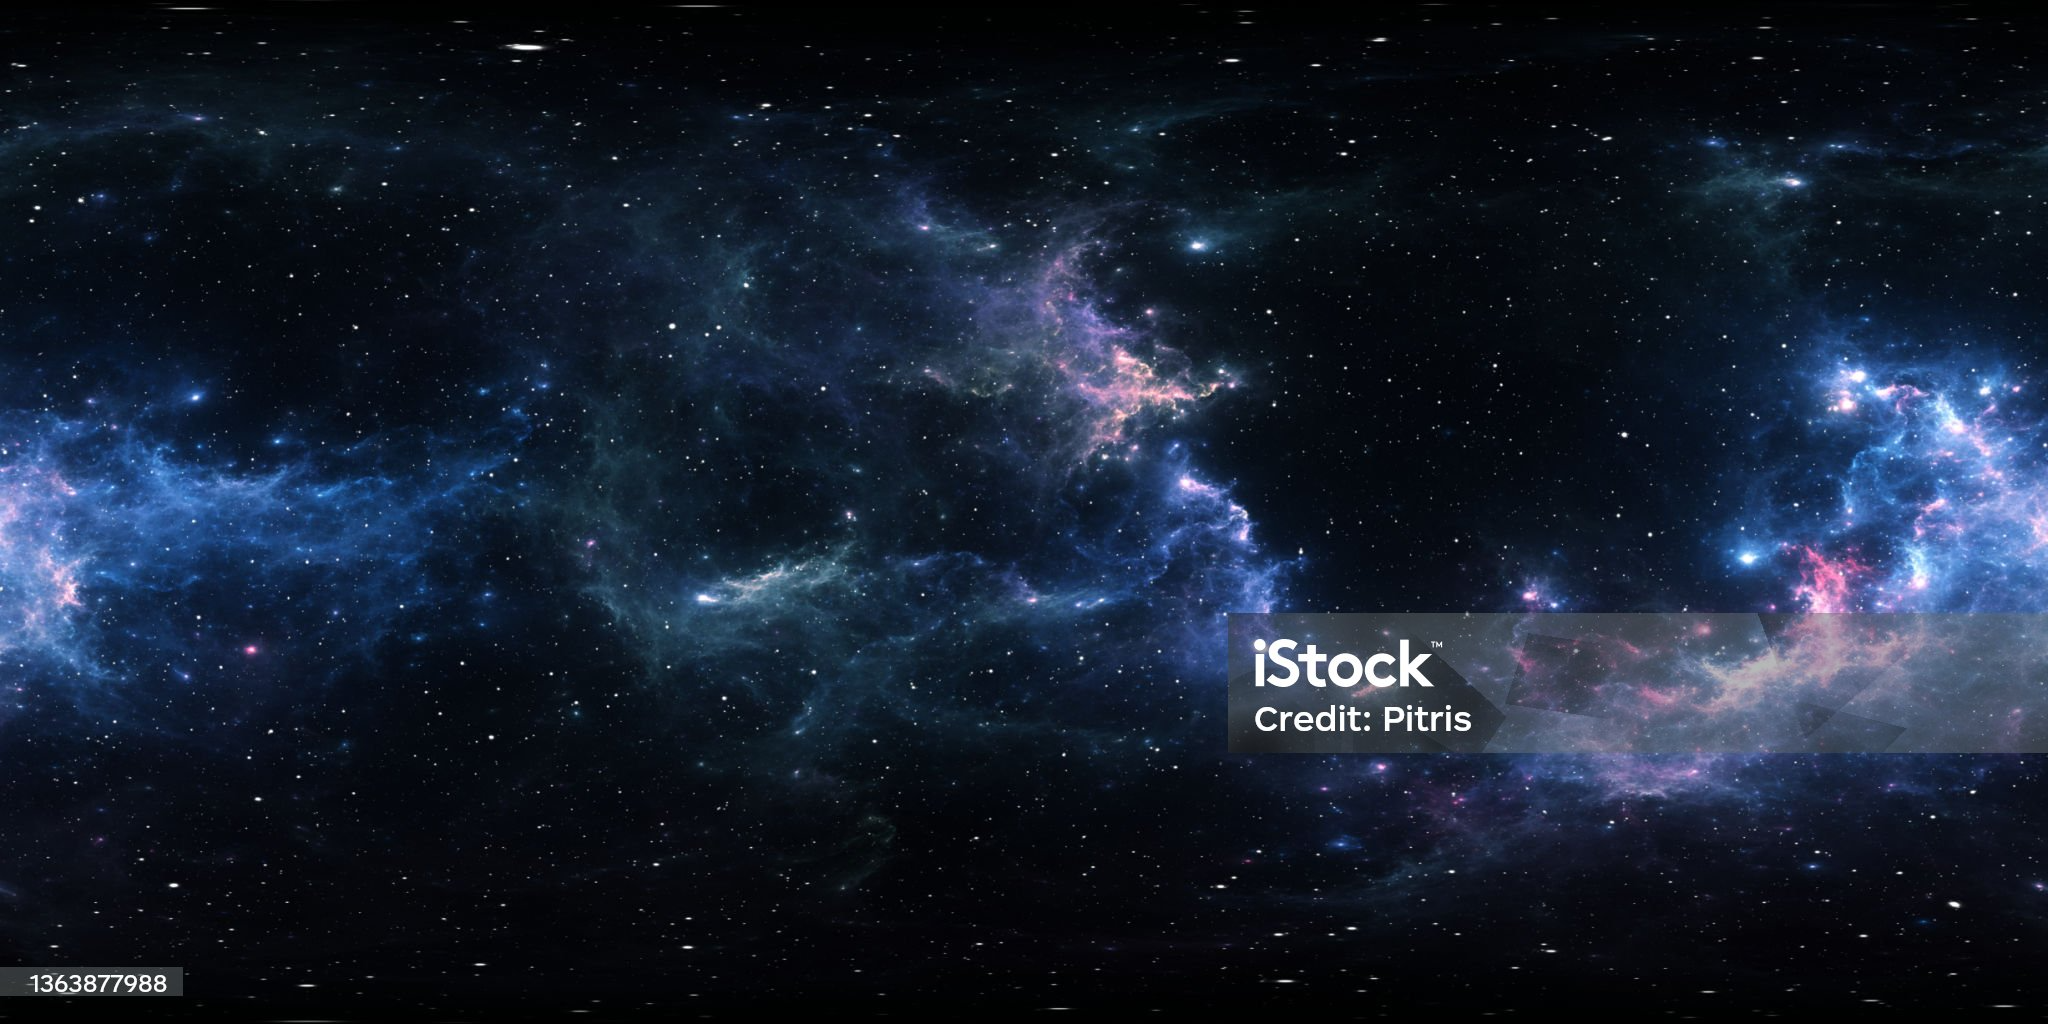
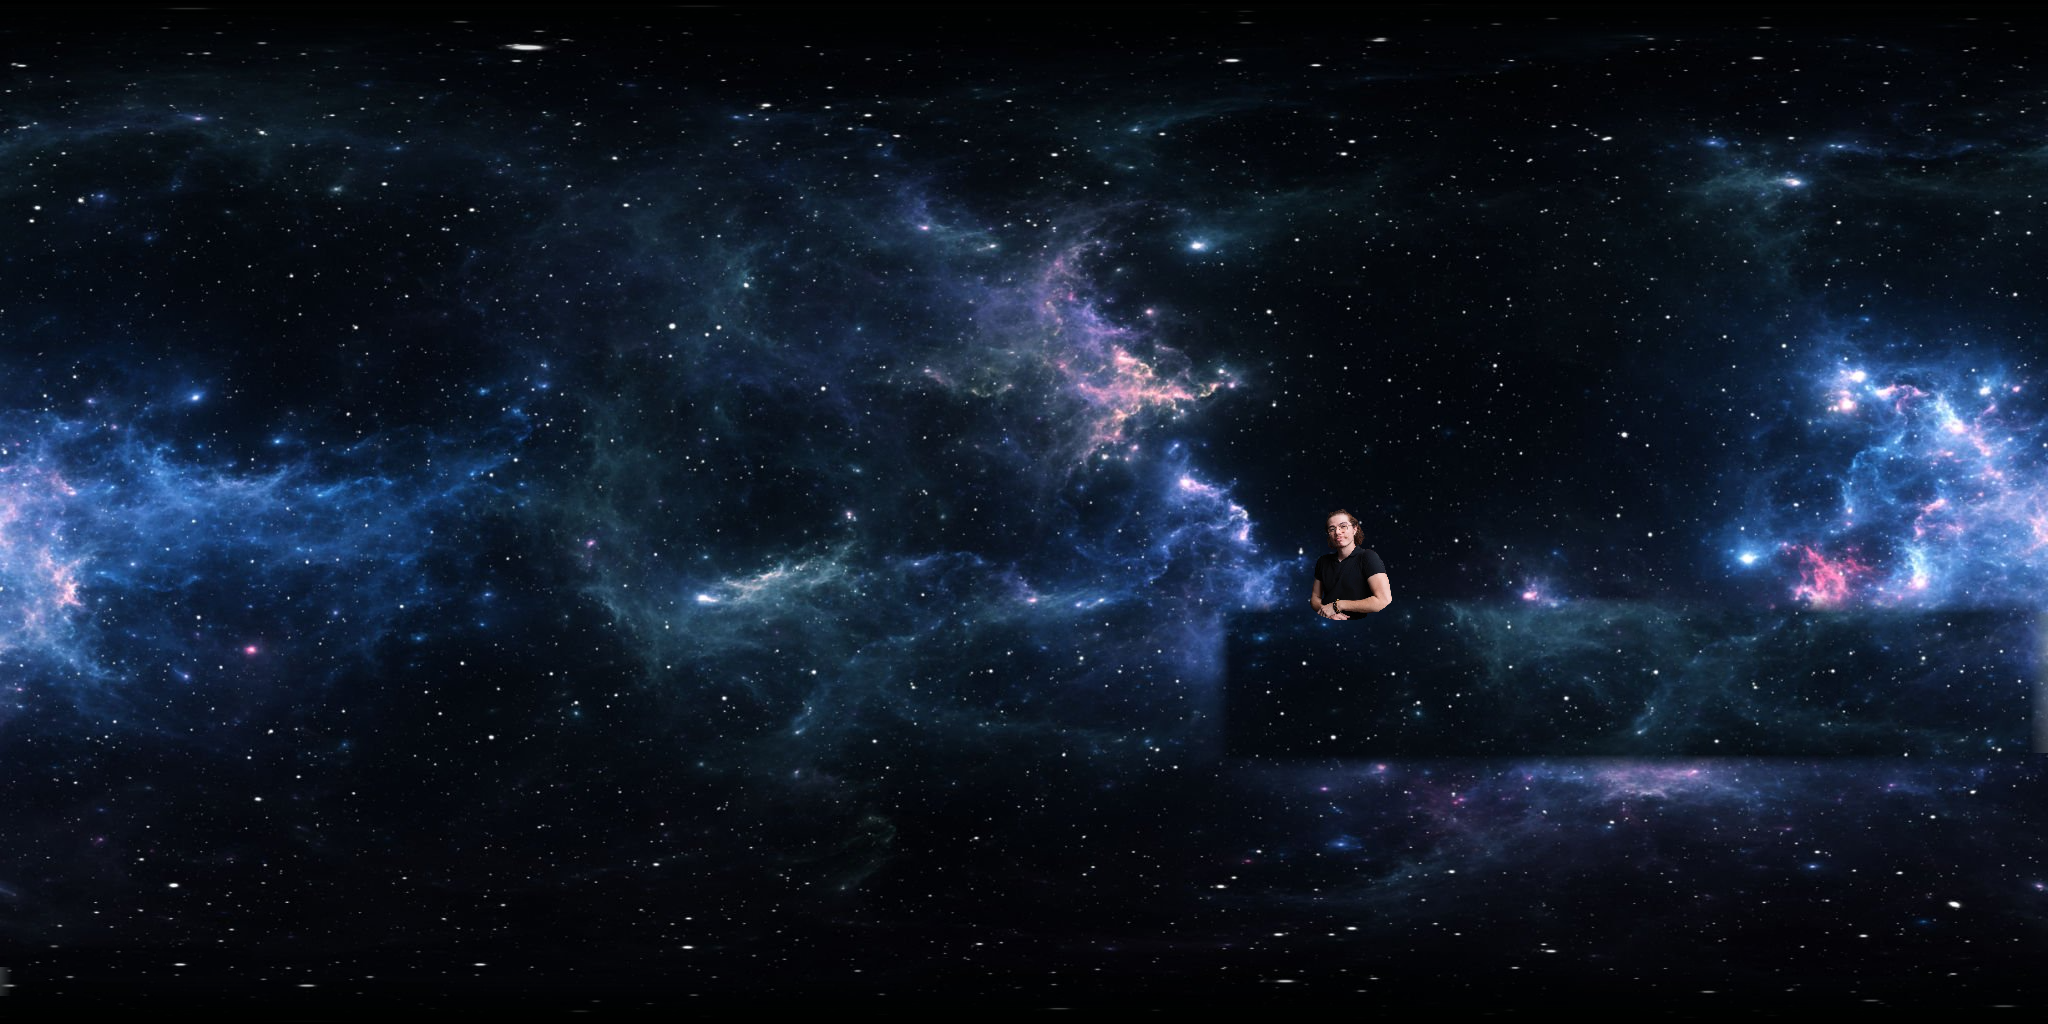
feat(gui): port dismissable end screen + cleaned skybox onto gui/
Re-applies clean-main's two gui3d/ improvements onto upstream's renamed
gui/ dir (instead of duplicating the directory): Enter toggles the end
screen so the spectator can keep flying (gfx::Key::Enter, _endHidden,
help + on-screen hint), and the watermark-free skybox Background.png with
luan.png composited.

Claude-Session: https://claude.ai/code/session_01JN7JPUWDgL9eCStnChtV4a

Changed region(s): [[0.5938, 0.5, 1.0, 0.75], [0.0, 0.9375, 0.0938, 1.0]]

diff --git a/gui/interface.cpp b/gui/interface.cpp
@@ -661,10 +661,16 @@ void Interface::handleInput()
         _camera.position = gfx::add(_camera.position, move);
     }
 
+    // ---- Enter dismisses (or brings back) the end screen once there's a winner,
+    // so the spectator can keep flying around the finished game normally.
+    if (_state.hasWinner && _engine.keyPressed(gfx::Key::Enter))
+        _endHidden = !_endHidden;
+
     // ---- Wheel sets the fly speed (not zoom — there's no pivot to zoom to).
-    // After the game ends, the same wheel scrolls the winner report instead.
+    // While the end screen is up, the same wheel scrolls the winner report instead.
+    const bool endScreenUp = _state.hasWinner && !_endHidden;
     float wheel = _engine.mouseWheel();
-    if (wheel != 0.0f && _state.hasWinner)
+    if (wheel != 0.0f && endScreenUp)
     {
         _endScroll -= wheel * 56.0f;
         if (_endScroll < 0.0f)
@@ -1188,7 +1194,7 @@ void Interface::render()
         drawStatsPanel();
     if (_showHelp)
         drawHelpOverlay();
-    if (_state.hasWinner)
+    if (_state.hasWinner && !_endHidden)
         drawEndScreen();
 
     _engine.drawFps(_engine.screenWidth() - 90, 10);
@@ -1482,6 +1488,7 @@ void Interface::drawEndScreen()
     _engine.drawRect(px, py, width, height, gfx::Color{0, 0, 0, 126});
     _engine.drawRectLines(px, py, width, height, winnerColor);
 
+    _engine.drawText("ENTER to dismiss", px + width - 190, py + 24, 16, gfx::LIGHTGRAY);
     _engine.drawText("VICTORY", px + pad, py + 18, 34, winnerColor);
     _engine.drawText(gfx::fmt("%s wins", _state.winner.c_str()), px + pad, py + 58, 22, gfx::RAYWHITE);
     _engine.drawText(gfx::fmt("Alive players: %d   Eggs left: %d   Time unit: %d",
@@ -1565,7 +1572,7 @@ void Interface::drawEndScreen()
 
 void Interface::drawHelpOverlay()
 {
-    static const std::array<const char *, 16> kHelp = {
+    static const std::array<const char *, 17> kHelp = {
         "CONTROLS  -  FREE CAMERA",
         "Mouse           look around freely",
         "ZQSD / Arrows   fly (Shift = faster)",
@@ -1581,6 +1588,7 @@ void Interface::drawHelpOverlay()
         "End             jump back to live",
         "Tab             toggle global stats",
         "M               toggle music",
+        "Enter           dismiss / show end screen (after a win)",
         "H / F1          this help",
     };
 

diff --git a/gui/raylibWrapper.cpp b/gui/raylibWrapper.cpp
@@ -72,6 +72,8 @@ int toRlKey(gfx::Key k)
         return KEY_RIGHT;
     case gfx::Key::Space:
         return KEY_SPACE;
+    case gfx::Key::Enter:
+        return KEY_ENTER;
     case gfx::Key::LeftShift:
         return KEY_LEFT_SHIFT;
     case gfx::Key::RightShift:

diff --git a/gui/gfxTypes.hpp b/gui/gfxTypes.hpp
@@ -107,6 +107,7 @@ enum class Key
     PageDown,
     End,
     Tab,
+    Enter,
     F1,
 };
 enum class MouseBtn

diff --git a/gui/interface.hpp b/gui/interface.hpp
@@ -161,6 +161,7 @@ class Interface
     // --- Spectator state ---
     bool _showStats{false};           // Tab: global environment stats panel
     bool _showHelp{false};            // H / F1: full controls overlay
+    bool _endHidden{false};           // Enter: dismiss the end screen to keep using the GUI
     float _endScroll{0.0f};           // mouse-wheel offset for the end-screen player list
     std::int64_t _followedPlayer{-1}; // F: camera rides along this player id (-1 = none)
     gfx::Vec3 _followAnchor{};        // followed player's world pos last frame